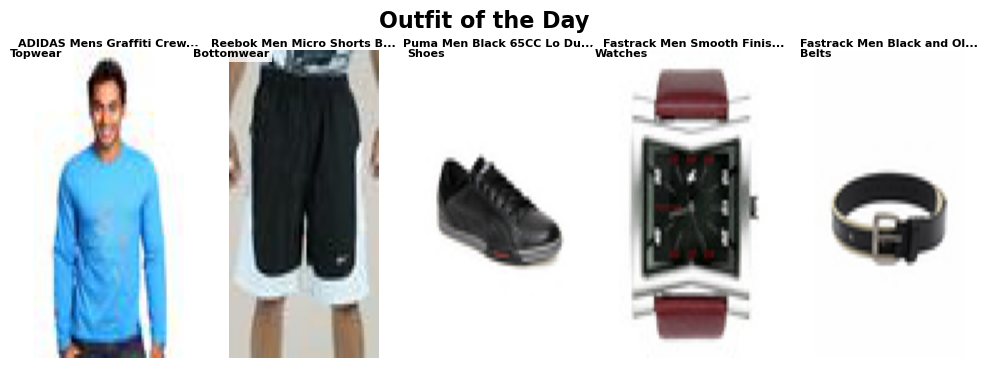
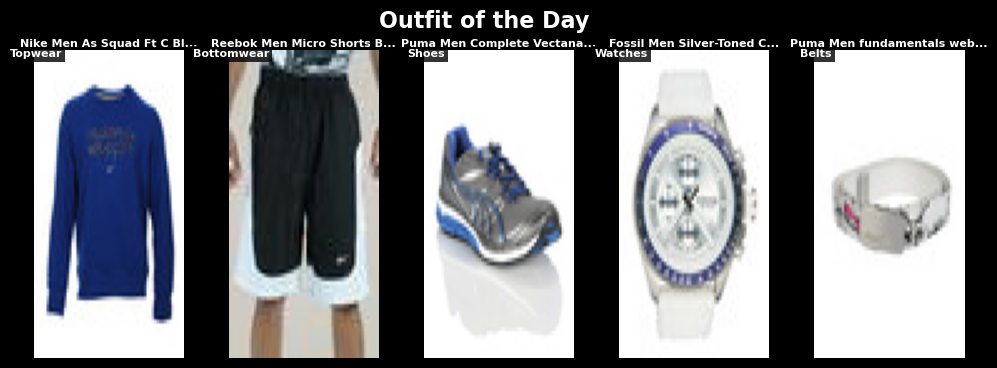
Remove MM folder

diff --git a/ClothingSuggestion.py b/ClothingSuggestion.py
@@ -64,8 +64,8 @@ class OutfitSelector:
 
     
     def save_outfit_collage(self, outfit, save_path):
-        fig, axes = plt.subplots(1, len(outfit), figsize=(12, 4))
-        fig.suptitle('Outfit of the Day', fontsize=16, weight='bold')
+        fig, axes = plt.subplots(1, len(outfit), figsize=(12, 4), facecolor='black')  # Set facecolor to black
+        fig.suptitle('Outfit of the Day', fontsize=16, weight='bold', color='white')  # Set title color to white
         plt.subplots_adjust(wspace=0.3)
 
         max_name_length = 25  # Maximum length for the name of the clothing item
@@ -83,14 +83,14 @@ class OutfitSelector:
             fontsize = max_fontsize - len(truncated_name) * 0.8
             fontsize = max(fontsize, 8)  # Ensure minimum font size
 
-            ax.set_title(truncated_name, fontsize=fontsize, weight='bold', pad=2)
+            ax.set_title(truncated_name, fontsize=fontsize, weight='bold', pad=2, color='white')  # Set title color to white
             ax.set_aspect('auto')
 
             # Add transparent overlay with text for better readability
             ax.text(0.5, 0.5, item.subCategory, ha='center', va='center', fontsize=8, weight='bold',
-                    bbox=dict(facecolor='white', alpha=0.8, edgecolor='none', pad=2))
+                    color='white', bbox=dict(facecolor='black', alpha=0.8, edgecolor='none', pad=2))  # Set text color to white and background to black
 
-        plt.savefig(save_path, bbox_inches='tight')  # Save the collage
+        plt.savefig(save_path, bbox_inches='tight', facecolor='black')  # Save the collage with black background
         plt.close()  # Close the plot to release resources
 
 
